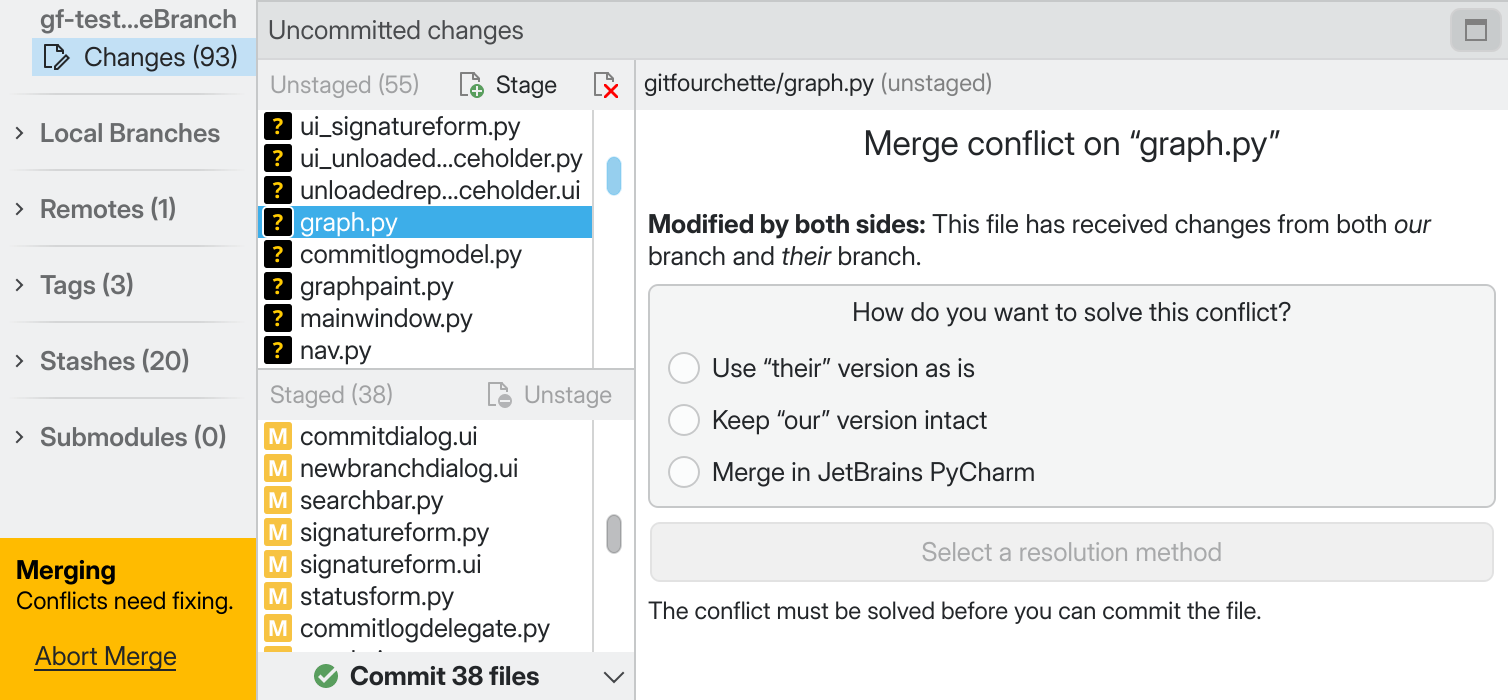
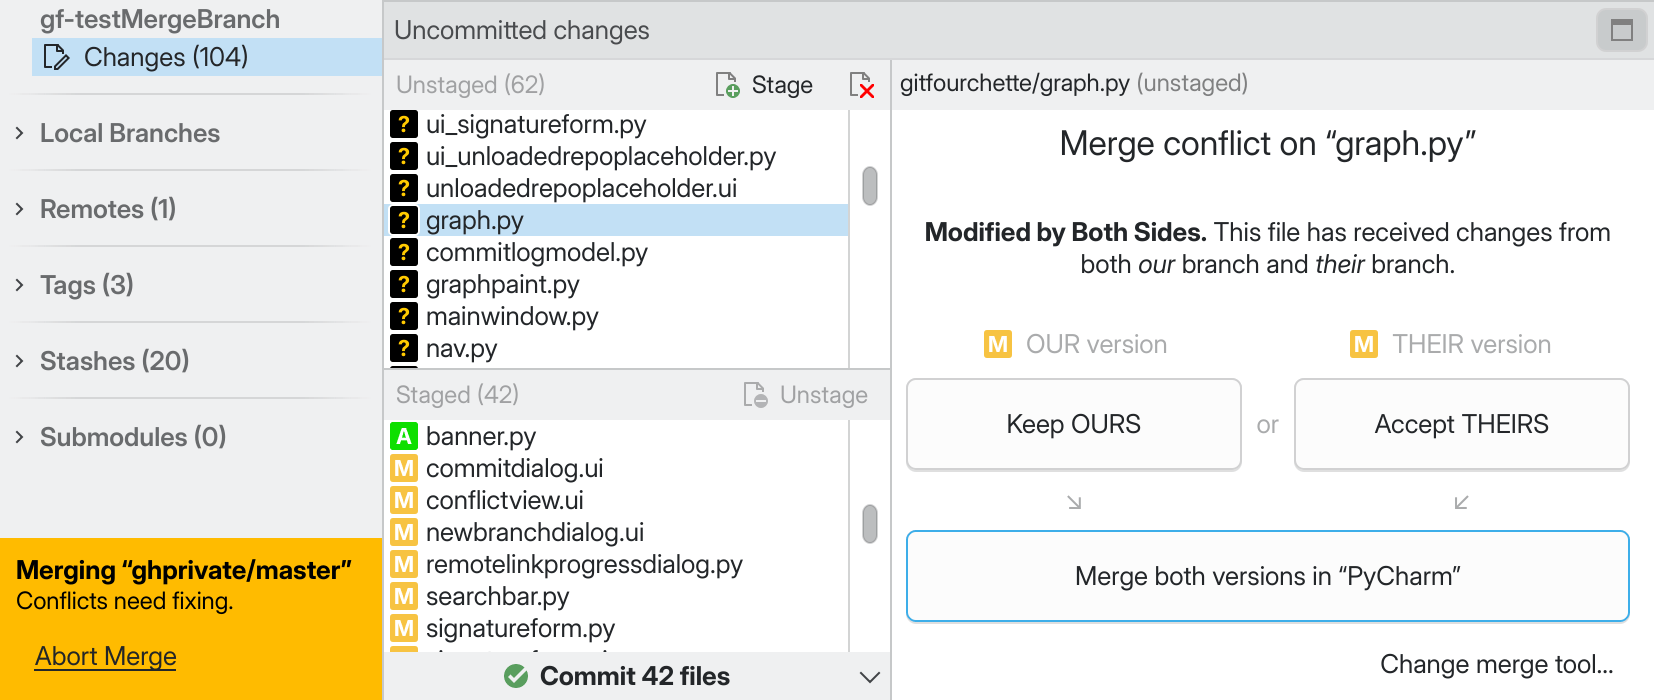
Reflect changes in conflict view

diff --git a/guide/conflicts.rst b/guide/conflicts.rst
@@ -48,13 +48,13 @@ From the Conflict View, you can resolve the conflict in one of three ways:
     * - Choice
       - Description
 
-    * - :guilabel:`Use "their" version as is`
-      - Accept incoming changes. The file will be replaced with the incoming version.
-
-    * - :guilabel:`Keep "our" version  intact`
+    * - :guilabel:`Keep OURS`
       - Reject incoming changes. The file won't be modified from its current state in HEAD.
 
-    * - :guilabel:`Merge in...`
+    * - :guilabel:`Accept THEIRS`
+      - Accept incoming changes. The file will be replaced with the incoming version.
+
+    * - :guilabel:`Merge both versions`
       - See :ref:`merge-tool`.
 
 .. note::
@@ -93,19 +93,26 @@ line-by-line merge tool (yet?), but it can leverage an external merging program.
     Otherwise, you can enter your own command
     (feel free to `open an issue <https://github.com/jorio/gitfourchette/issues>`_ to suggest it).
 
-In the Conflict View, the last option for fixing a conflict is :guilabel:`Merge in (External Tool)`.
-Select it, then click the large :guilabel:`Resolve Conflict` button.
-|App| will launch the merge program and wait for you to complete the merge in it.
+    **Flatpak users:** To use a Flatpak merge tool, be sure to
+    pick one of the ``flatpak run`` commands available at the bottom of the
+    presets in |cogwheel| :menuselection:`Settings --> External Tools`.  In
+    addition, note that the Flatpak version of |App| itself automatically wraps
+    all external commands in a ``flatpak-spawn`` call.
 
-.. figure:: /assets/screens/mergetool.png
-
-    About to merge a file in an external program.
+In the Conflict View, the last option for fixing a conflict is a large
+:guilabel:`Merge both versions in (External Tool)` button. Click it, and |App|
+will launch the merge program and wait for you to complete the merge in it.
 
 When you're done merging, save the file in your merge tool and return to |App|
 (you may have to quit the tool). |App| will pick up that the merge is complete
-and will prompt you to confirm or discard the resolution.
+and will prompt you to confirm or discard your merge.
 
-If you **discard** the resolution, the conflict will remain and you'll have to
+.. figure:: /assets/screens/mergecomplete.png
+
+    After finishing a merge in an external tool, return to the Conflict View to
+    resolve the conflict with your merge.
+
+If you **discard** the merge, the conflict will remain and you'll have to
 resolve it again.  If you **confirm**, the conflict will vanish and, in most
 cases, turn into a modification (:gficon:`status_m`), ready to stage and commit.
 
